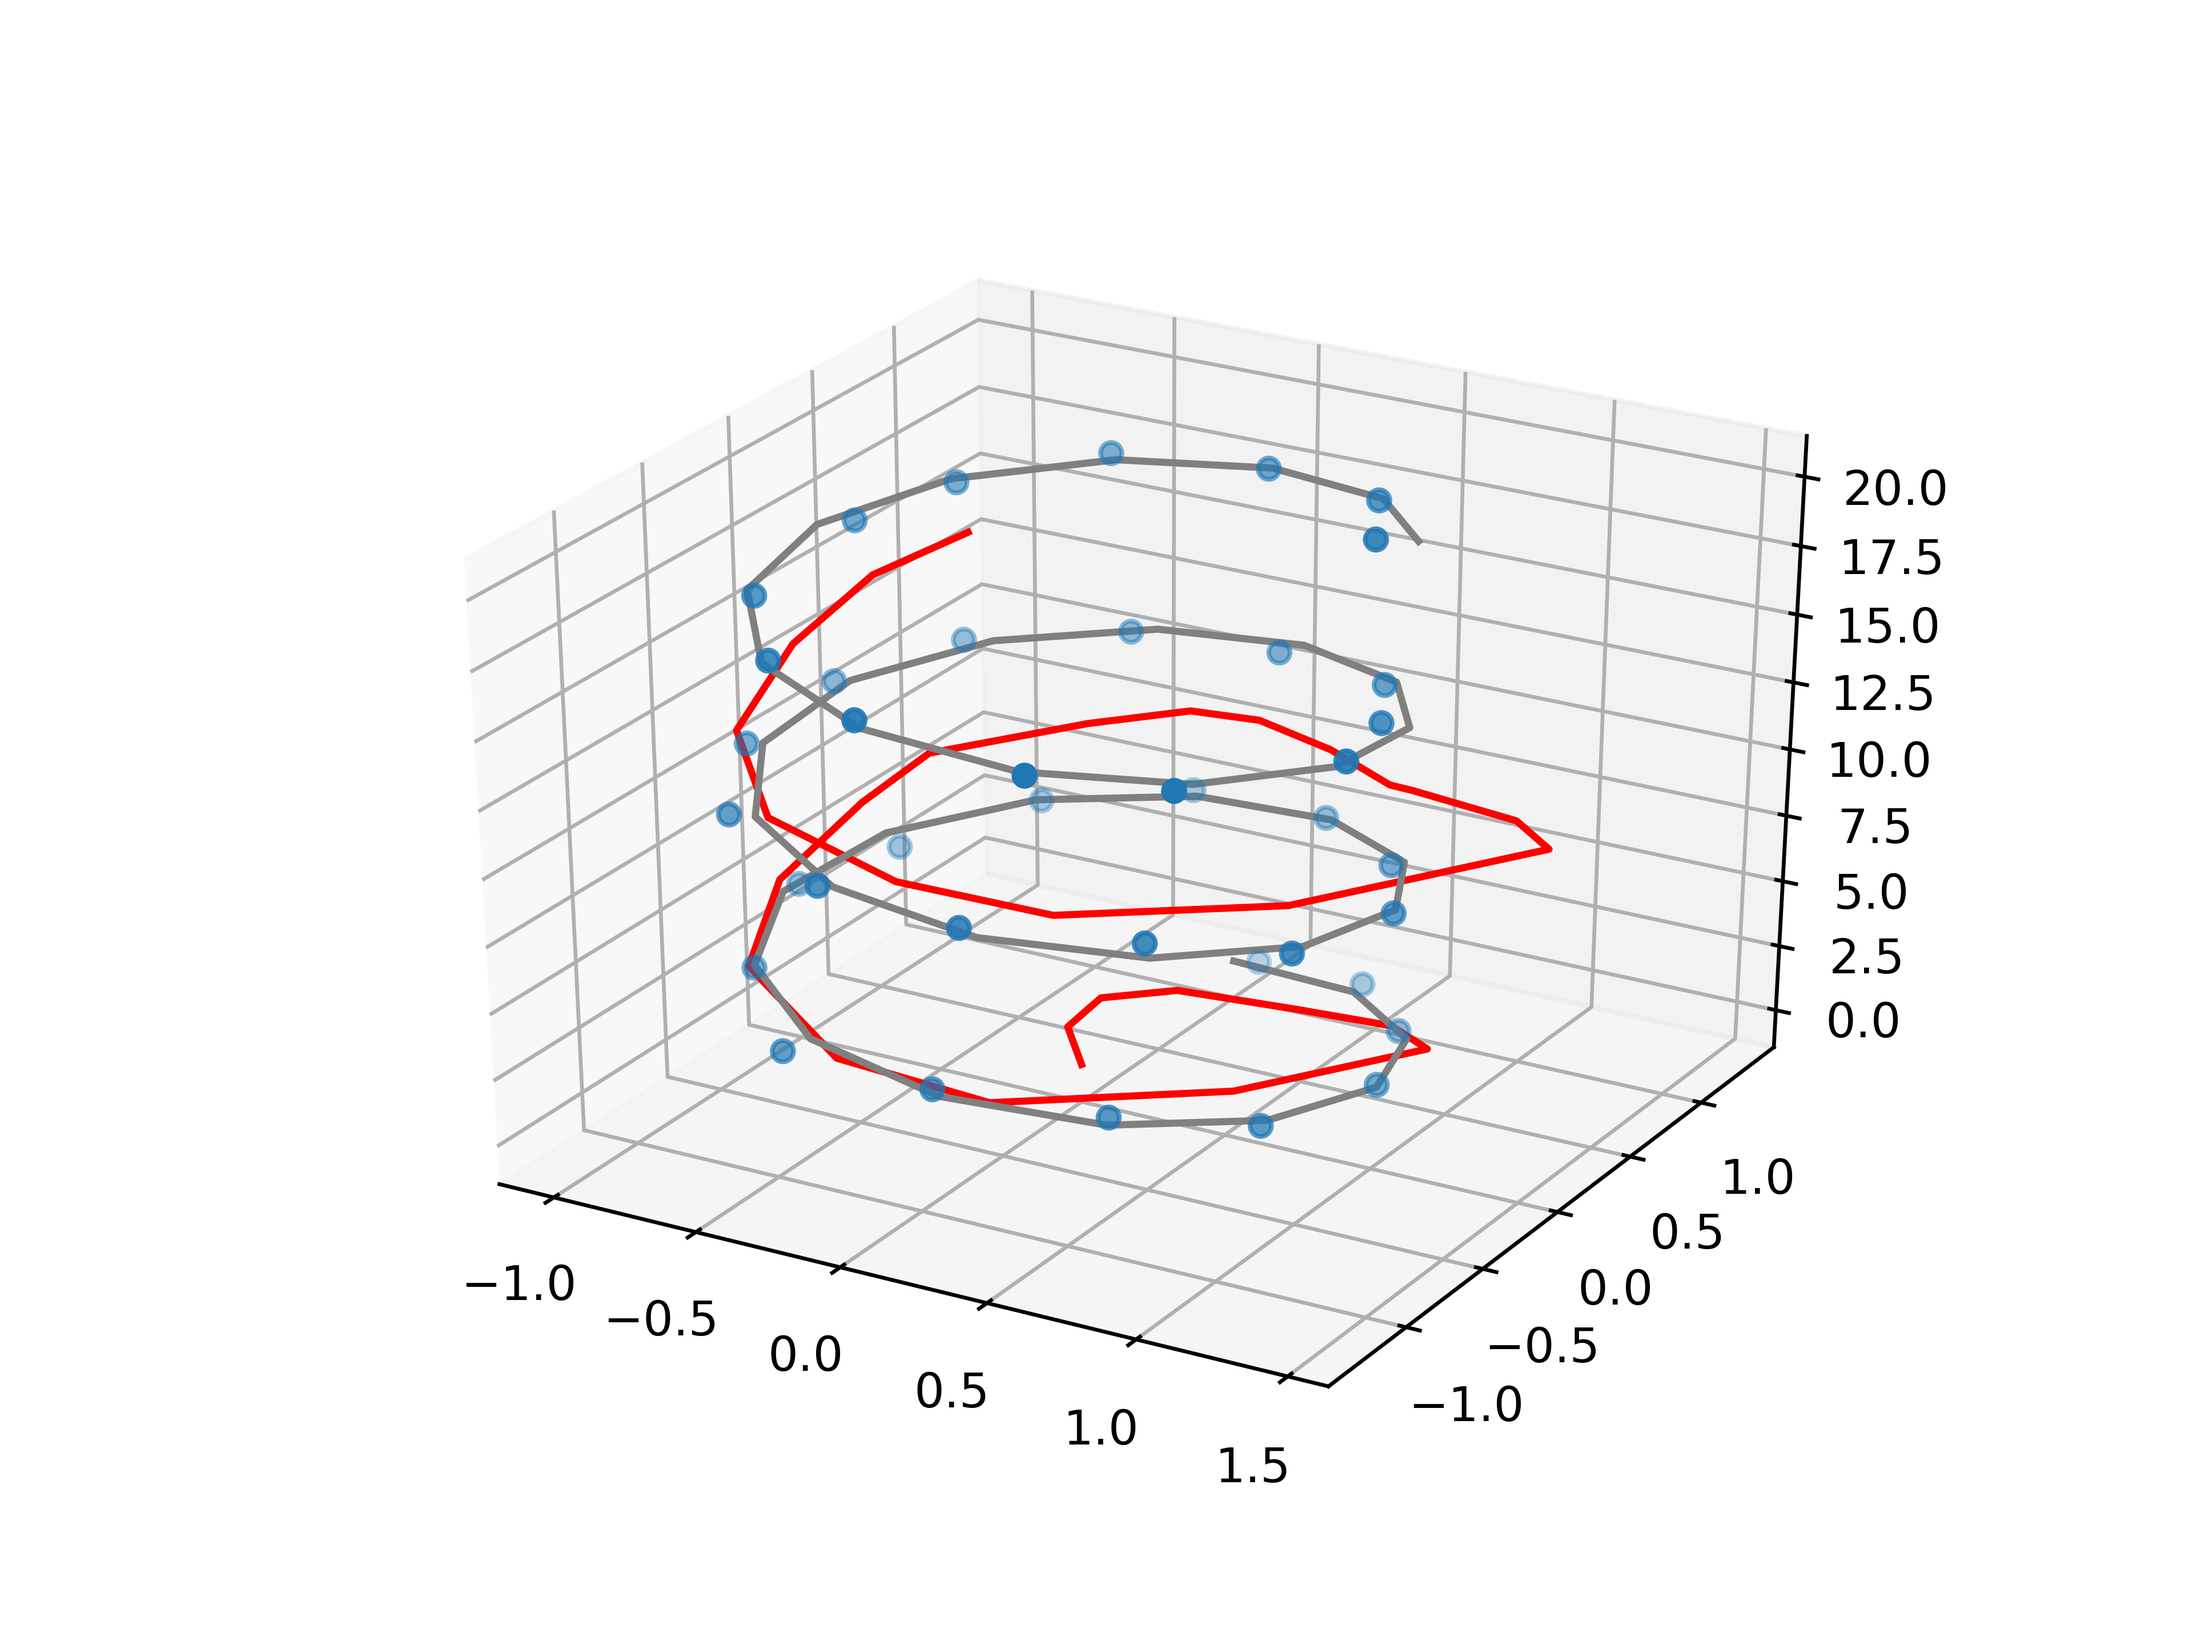
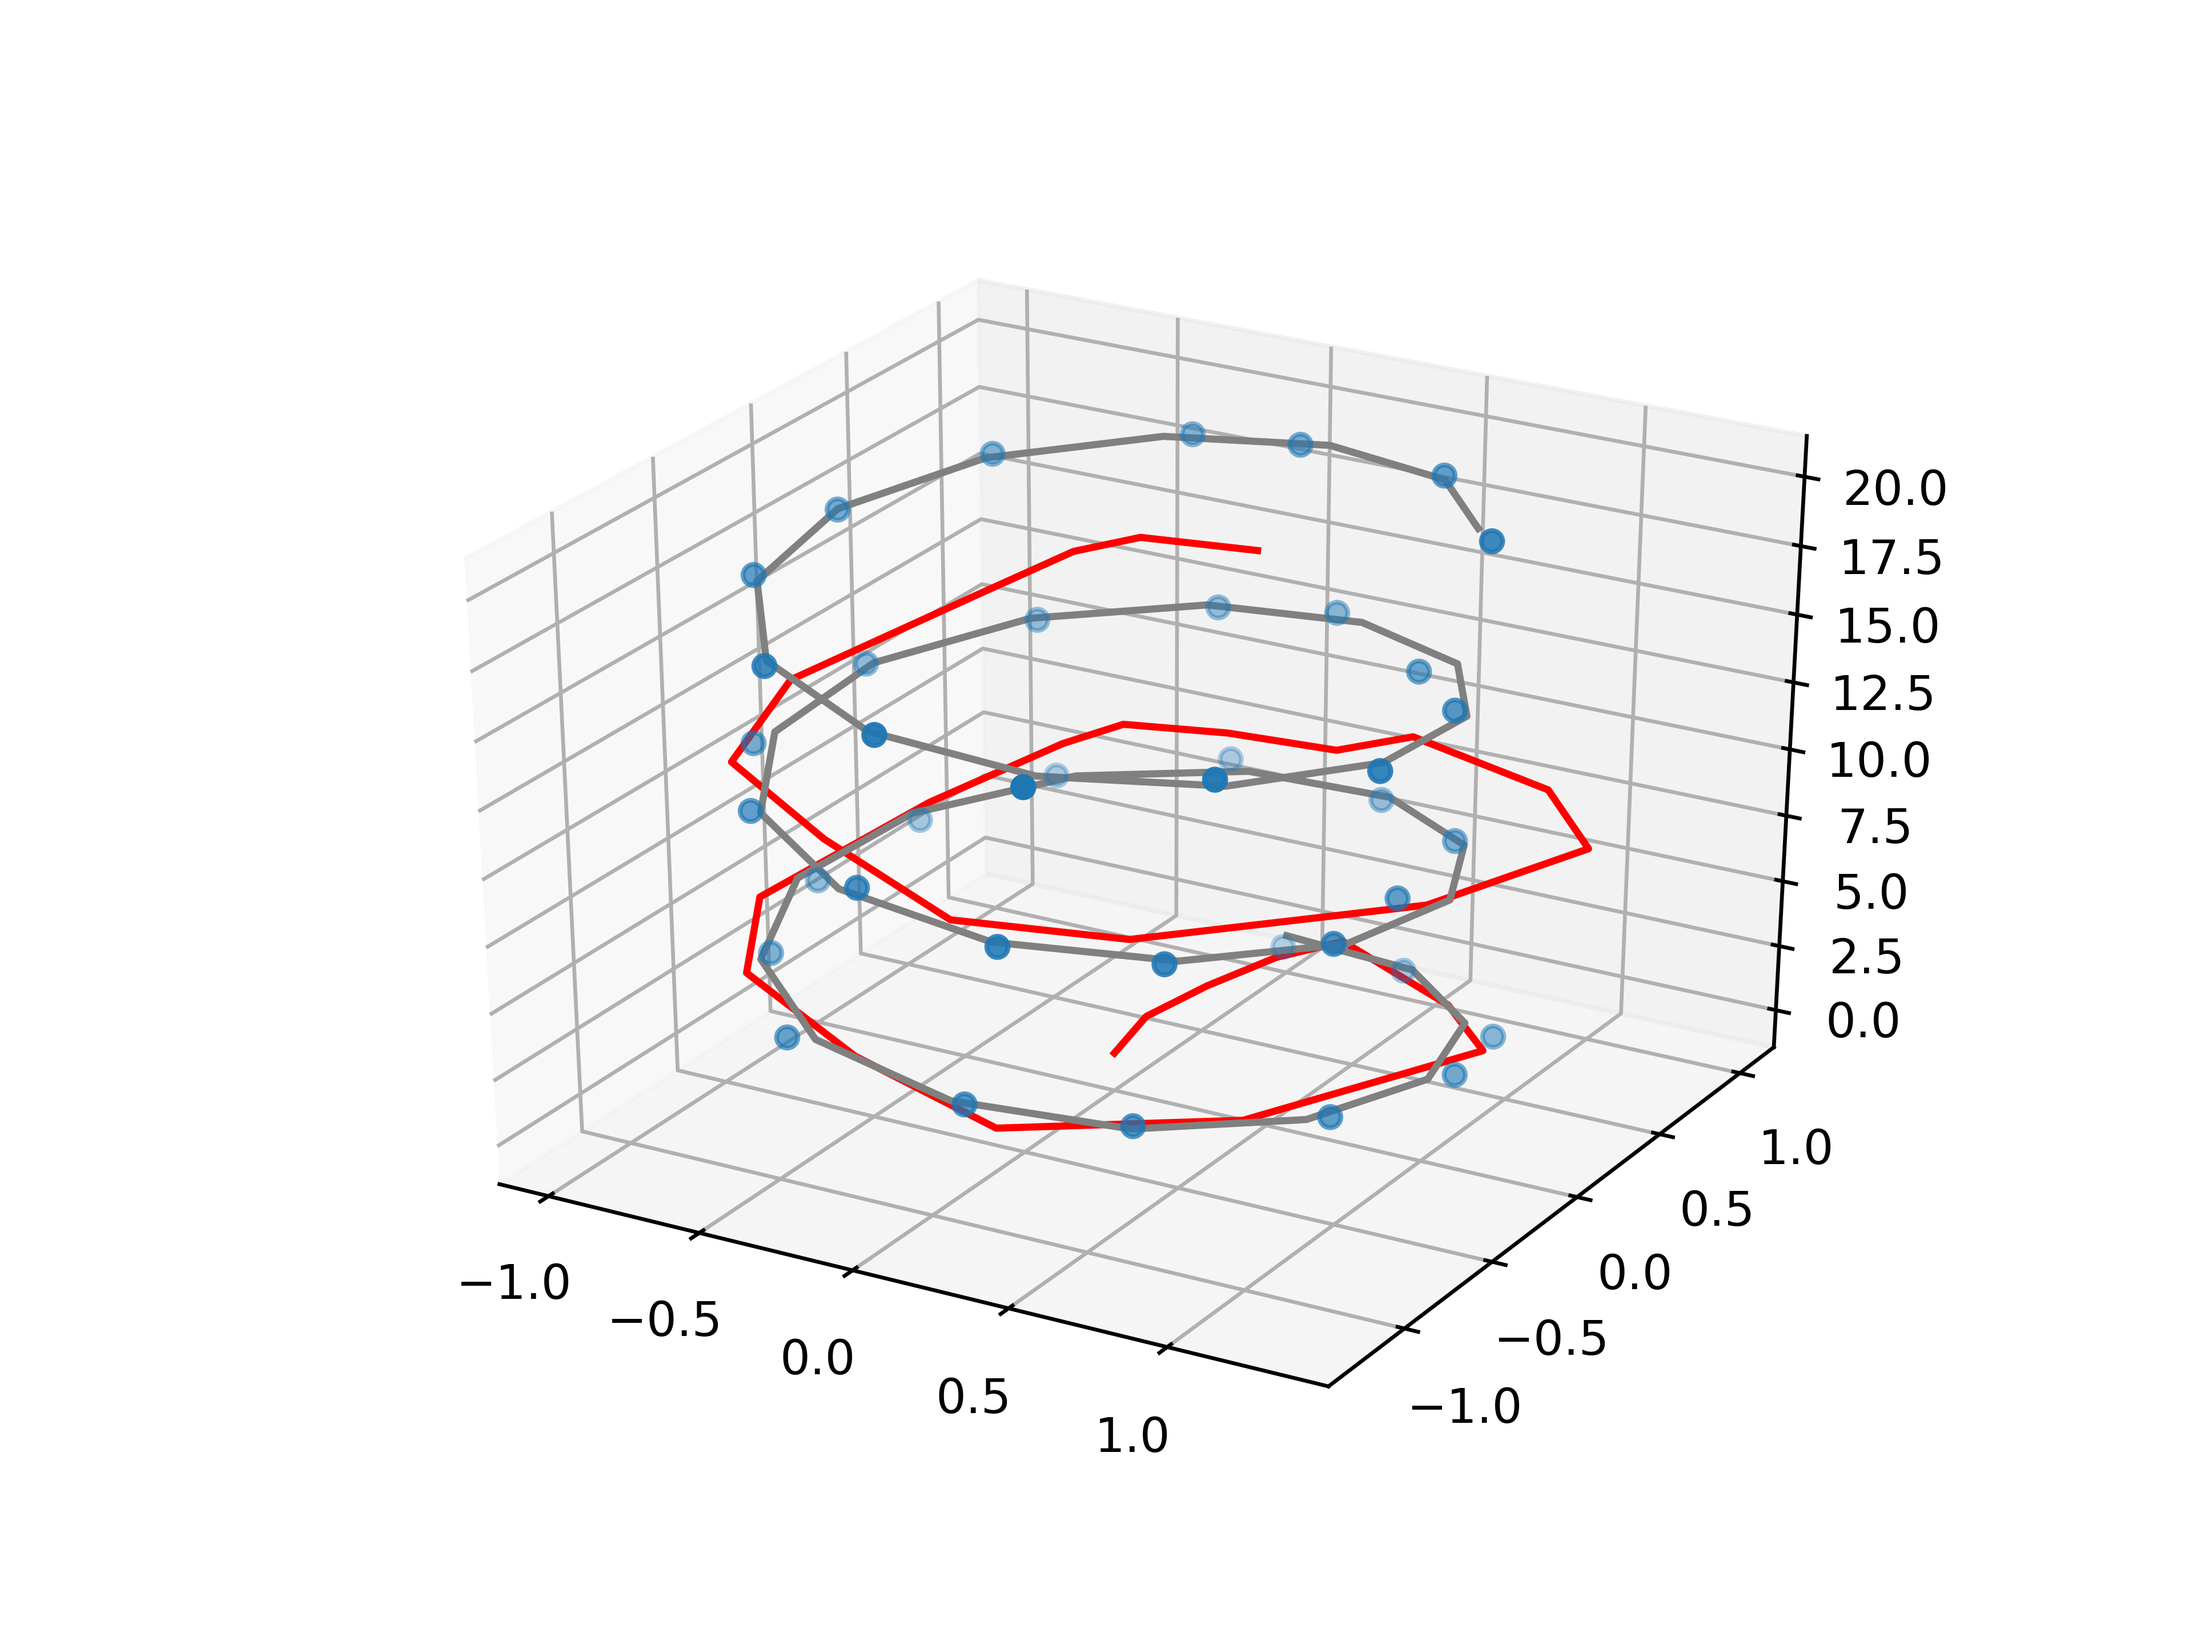
Added Crossbar Mapping Plots

diff --git a/fig6.py b/fig6.py
@@ -32,12 +32,36 @@ from networks.lstm_rnn import train as lstm_train
 from networks.gru_rnn import GRU_RNN as GRU_RNN
 from networks.gru_rnn import train as gru_train
 
+# Function to map and plot crossbar map for a given model
+def plot_cmap(model):
+
+    # Plot crossbar mapping
+    fig, ax_cmap = plt.subplots(ncols=5, figsize=(20, 3))
+    cmap = sns.blend_palette(("#fa7de3", "#ffffff", "#6ef3ff"), n_colors=9, as_cmap=True, input='hex')
+
+    for ax in ax_cmap:
+        ax.set(xticklabels=[])
+        ax.set(yticklabels=[])
+
+    weights = [model.cb.W[coord[0]:coord[0]+coord[2], coord[1]*2:coord[1]*2+coord[3]*2] for coord in model.cb.mapped] + [model.cb.W]
+    vmax = max(torch.max(weight) for weight in weights)
+    vmin = min(torch.min(weight) for weight in weights)
+
+    with torch.no_grad():
+        for i, weight in enumerate(weights):
+            sns.heatmap(weight, vmax=vmax, vmin=vmin, cmap=cmap, square=True, cbar=False, ax=ax_cmap[i])
+
+    plt.savefig()
+
+    return fig, ax_cmap
+
+
 # Device parameters for convenience     
 device_params = {"Vdd": 0.2,
                  "r_wl": 20,
                  "r_bl": 20,
-                 "m": 512,
-                 "n": 512,
+                 "m": 128,
+                 "n": 128,
                  "r_on": 1e4,
                  "r_off": 1e5,
                  "dac_resolution": 4,

diff --git a/utils/spiral_generator.py b/utils/spiral_generator.py
@@ -34,7 +34,7 @@ class Epoch_Spiral_Generator():
         
         self.train_data = self.data[:cutoff]
         self.test_start = self.data[0]
-        self.test_data = [((self.y[:, i:i+30].reshape(-1, dimension, 1), self.x[:, i:i+30].reshape(-1, 1, 1)), (self.y[:, i+30:i+31].reshape(dimension, -1))) for i in range(self.y.size(1) - 10)]
+        self.test_data = [((self.y[:, i:i+30].reshape(-1, dimension, 1), self.x[:, i:i+30].reshape(-1, 1, 1)), (self.y[:, i+30:i+31].reshape(dimension, -1))) for i in range(self.y.size(1) - 30)]
 
 class Stochastic_Spiral_Generator():
 
@@ -53,8 +53,10 @@ class Stochastic_Spiral_Generator():
         self.y_x = (torch.sin(self.x) + 0.2 * np.random.randn(n_pts)).float()
         self.y_y = (torch.cos(self.x) + 0.2 * np.random.randn(n_pts)).float()
 
-        self.y = torch.cat((self.y_x, self.y_y), axis=0)
-        
+        self.theta = torch.linspace(0, 1.0, n_pts).reshape(1, -1)
+
+        self.y = torch.mv(torch.cat((self.y_x, self.y_y), axis=0), self.theta)
+
         self.data = [((self.y[:, i:i+train_window].reshape(-1, dimension, 1), self.x[:, i:i+train_window].reshape(-1, 1, 1)), (self.y[:, i+train_window:i+train_window+10].reshape(dimension, -1))) for i in range(self.y.size(1) - train_window)]
 
 class Regular_Spiral_Generator():
